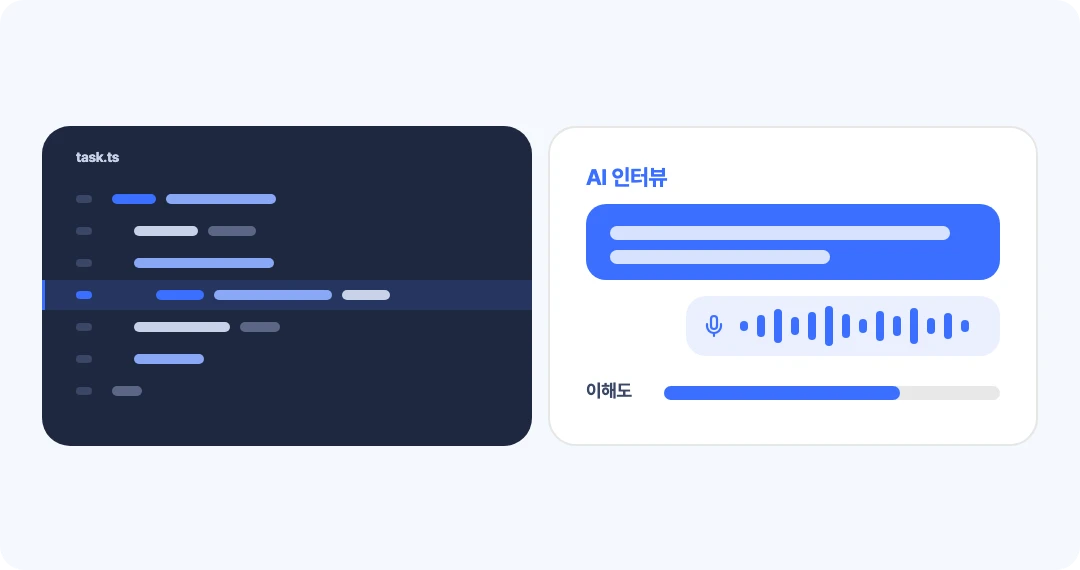
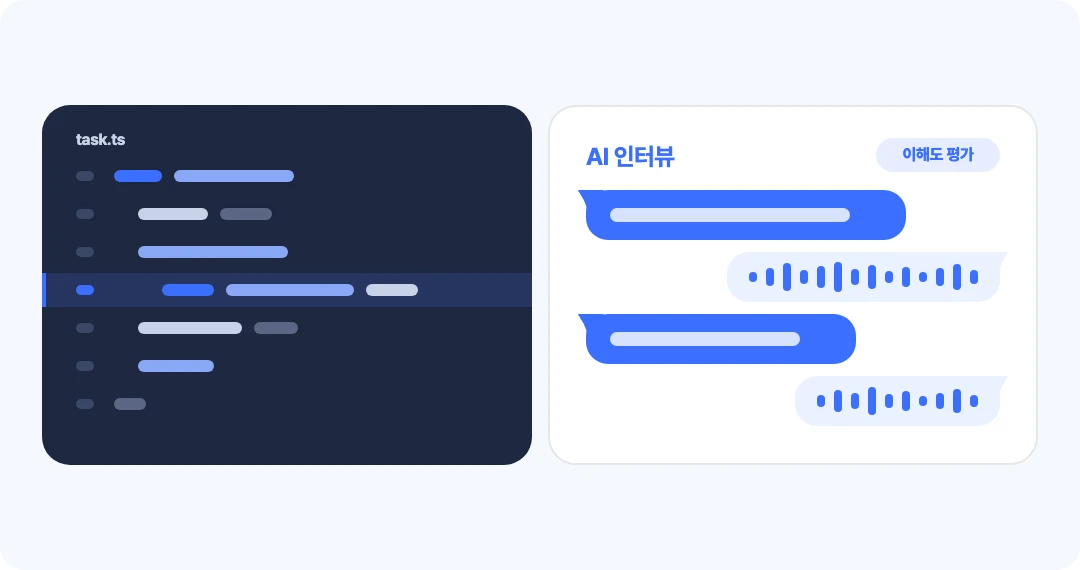
AI 역량검사 도식 ④⑤⑥ 개선: 더 잘 보이게, 말풍선 꼬리, 도넛 등급
- diagram-process.webp(④): 다른 도식보다 잘 안 보여서 카드를 패널에 가깝게
  키우고(700×370 → 940×430) 글자·아이콘·막대를 키워 진하게.
- diagram-debrief.webp(⑤): 오른쪽을 메신저처럼 AI 질문(왼쪽 위 꼬리) ↔ 지원자 음성
  답변(오른쪽 위 꼬리, 마이크 없이 파형)이 오가는 대화로. 두 카드 490×360.
- diagram-scorecard.webp(⑥): 왼쪽 등급을 목록 대신 도넛 '추천'으로, 오른쪽 점수
  카드는 펼친 근거 막대·막대 바탕까지 블루 계열(투명도)로.
- ⑤⑥ alt 문구를 새 그림에 맞게 수정.

diff --git a/app/ai-assessment/page.tsx b/app/ai-assessment/page.tsx
@@ -170,7 +170,7 @@ export default function AiAssessmentPage() {
                 <p>과제를 제출하면 AI 인터뷰가 이어집니다. AI가 결과에 대해 묻고, 지원자의 답으로 이해도를 평가합니다.</p>
               </div>
               <div className="hr-media">
-                <img className="hr-img" src="/diagram-debrief.webp" alt="AI 인터뷰 도식: 제출한 코드와 AI 질문, 지원자 음성 답변, 이해도" width={1080} height={570} loading="lazy" />
+                <img className="hr-img" src="/diagram-debrief.webp" alt="AI 인터뷰 도식: 제출한 코드와, AI 질문과 지원자 음성 답변이 오가는 대화" width={1080} height={570} loading="lazy" />
               </div>
             </div>
             <div className="how-row">
@@ -185,7 +185,7 @@ export default function AiAssessmentPage() {
                 <p>채용팀은 항목마다 검토 완료나 이의를 표시하고, 정정한 평가를 공식 결과로 고를 수 있습니다. 원래 평가는 남습니다.</p>
               </div>
               <div className="hr-media">
-                <img className="hr-img" src="/diagram-scorecard.webp" alt="평가와 리포트 도식: AI 추천 4단계와 항목별 점수, 근거" width={1080} height={570} loading="lazy" />
+                <img className="hr-img" src="/diagram-scorecard.webp" alt="평가와 리포트 도식: AI 추천 등급과 항목별 점수, 근거" width={1080} height={570} loading="lazy" />
               </div>
             </div>
           </div>
